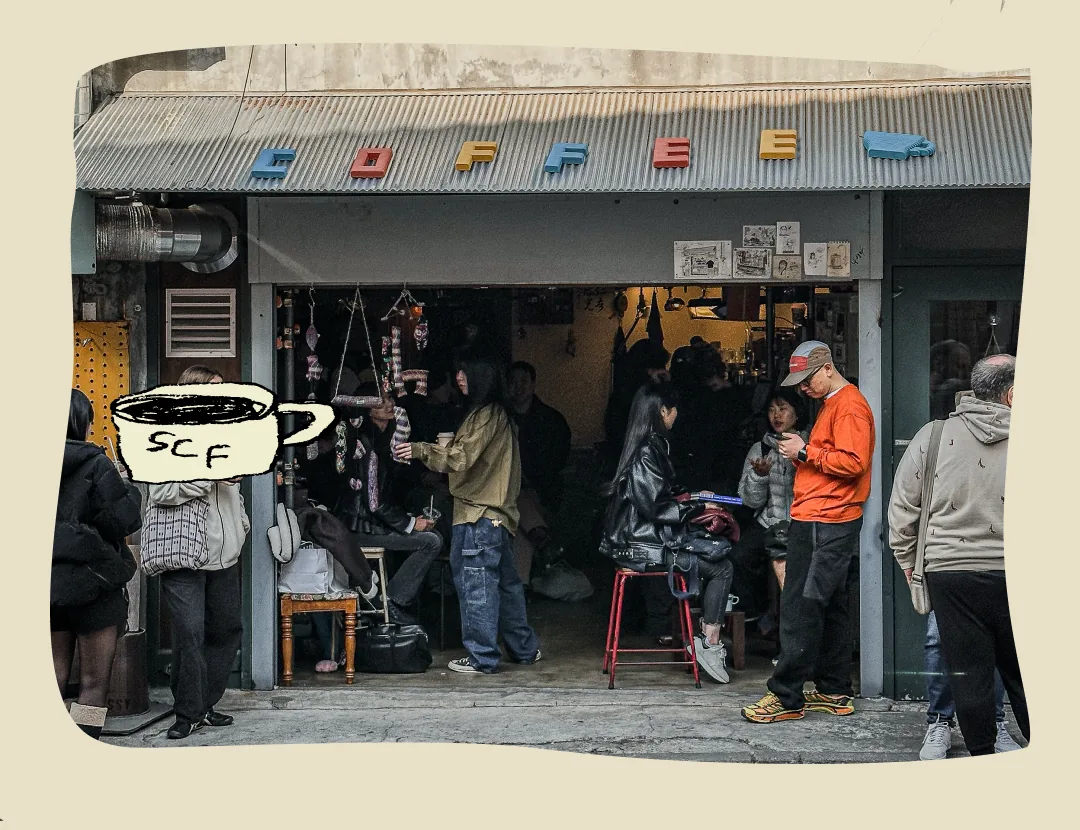
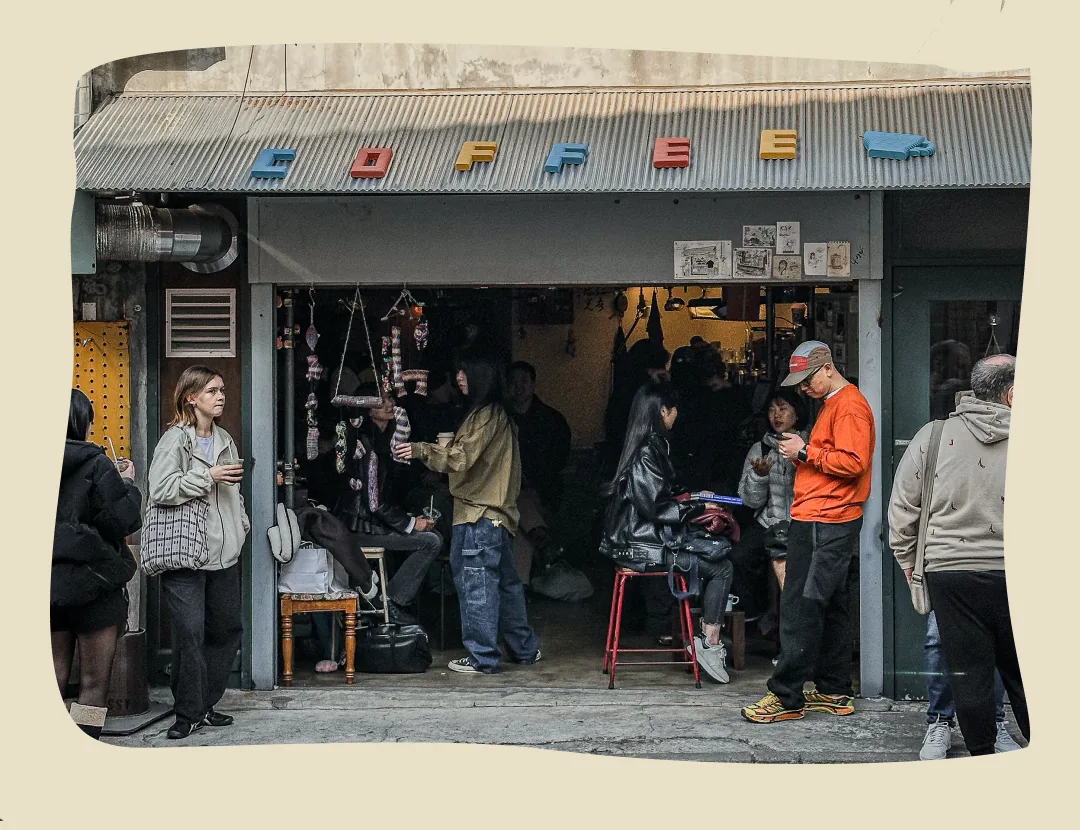
feat: 싸커피 데이 — 카페 사진 3장을 행사 소개로 이동, 도덕과 규범 사진 교체

Changed region(s): [[0.0917, 0.4518, 0.3056, 0.6024]]

diff --git a/day.html b/day.html
@@ -68,6 +68,13 @@
   .note{display:inline-block;border:2px solid var(--ink);border-radius:14px;padding:16px 22px;margin-top:20px;font-size:14.5px;color:var(--sub);line-height:1.7}
   .note b{color:var(--ink);font-weight:900}
 
+  .cafeshots{display:grid;grid-template-columns:repeat(3,1fr);gap:14px;margin-top:26px}
+  @media (max-width:640px){.cafeshots{grid-template-columns:1fr;gap:18px}}
+  .cafeshots figure{margin:0}
+  .cafeshots img{width:100%;height:auto;display:block;border-radius:10px}
+  .cafeshots figcaption{margin-top:8px;font-size:12.5px;font-weight:800;color:var(--sub)}
+  .cafeshots figcaption span{font-weight:700;color:var(--muted)}
+
   /* 이벤트 카드 */
   .grid{display:grid;grid-template-columns:1fr 1fr;gap:18px;margin-top:22px}
   @media (max-width:560px){.grid{grid-template-columns:1fr}}
@@ -88,7 +95,6 @@
   .panel[hidden]{display:none}
 
   .venue{background:var(--surface);border:1px solid var(--line);border-radius:14px;padding:24px}
-  .vphoto{width:100%;max-width:440px;height:auto;display:block;border-radius:10px;margin:0 auto 18px}
   .vhead{display:flex;align-items:center;gap:14px}
   .vhead>div{flex:1;min-width:0}
   .vlogo{flex:none;width:72px;height:52px;display:grid;place-items:center}
@@ -202,6 +208,11 @@
       도덕과 규범(상수) · 카쩨(이대) · 토니(효창)<br>
       입장료 없음
     </div>
+    <div class="cafeshots">
+      <figure><img src="img/day/day-photo-dokyu.webp" alt="도덕과 규범 외관" loading="lazy"><figcaption>도덕과 규범 <span>상수</span></figcaption></figure>
+      <figure><img src="img/day/day-photo-katze.webp" alt="카쩨 외관" loading="lazy"><figcaption>카쩨 <span>이대</span></figcaption></figure>
+      <figure><img src="img/day/day-photo-tony.webp" alt="토니 외관" loading="lazy"><figcaption>토니 <span>효창</span></figcaption></figure>
+    </div>
   </section>
 
   <!-- 2. 이벤트 소개 -->
@@ -235,7 +246,6 @@
 
     <div class="panels">
       <div class="venue panel" id="p-dokyu" role="tabpanel" aria-labelledby="tab-dokyu">
-        <img class="vphoto" src="img/day/day-photo-dokyu.webp" alt="도덕과 규범 외관" loading="lazy">
         <div class="vhead">
           <span class="vlogo"><img src="img/day/day-p-dokyu.png" alt="도덕과 규범 로고"></span>
           <div><div class="nm">도덕과 규범</div><div class="ad">서울 마포구 독막로19길 32 1층</div></div>
@@ -256,7 +266,6 @@
       </div>
 
       <div class="venue panel" id="p-katze" role="tabpanel" aria-labelledby="tab-katze">
-        <img class="vphoto" src="img/day/day-photo-katze.webp" alt="카쩨 외관" loading="lazy">
         <div class="vhead">
           <span class="vlogo"><img src="img/day/day-p-katze.png" alt="카쩨 로고"></span>
           <div><div class="nm">카쩨</div><div class="ad">서울 서대문구 이화여대2길 26 1층</div></div>
@@ -273,7 +282,6 @@
       </div>
 
       <div class="venue panel" id="p-tony" role="tabpanel" aria-labelledby="tab-tony">
-        <img class="vphoto" src="img/day/day-photo-tony.webp" alt="토니 외관" loading="lazy">
         <div class="vhead">
           <span class="vlogo sm"><img src="img/day/day-p-tony.png" alt="카페 토니 로고"></span>
           <div><div class="nm">토니</div><div class="ad">서울 용산구 백범로79길 26 1층 102호</div></div>
